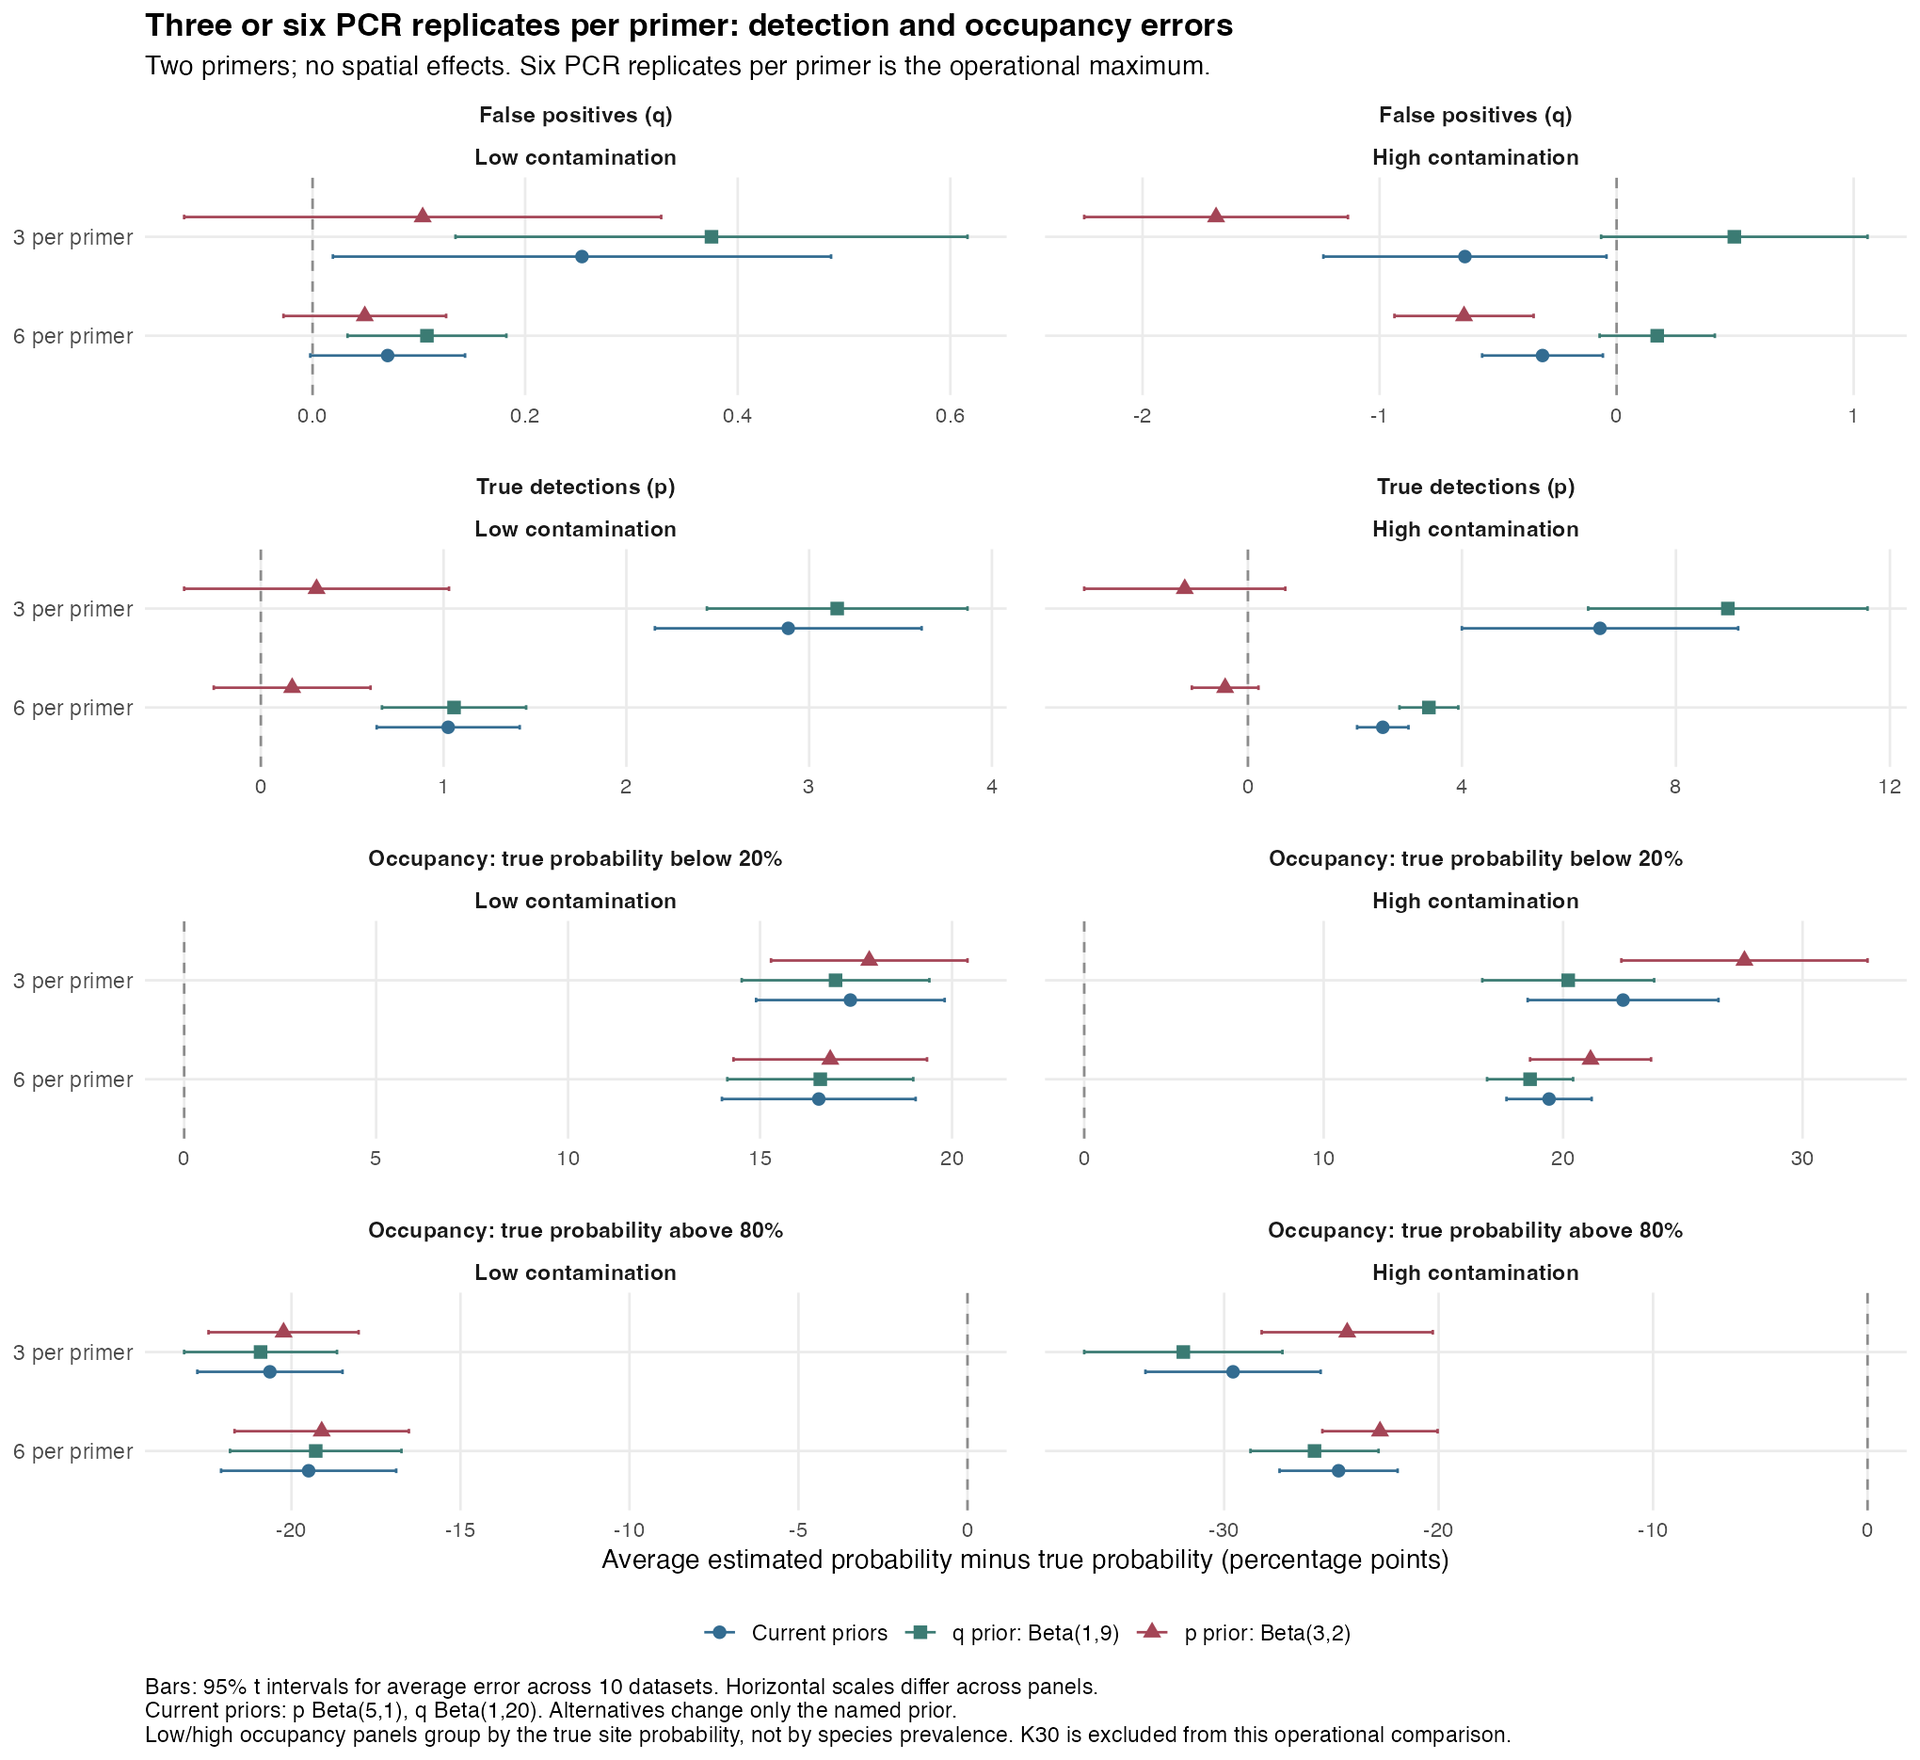
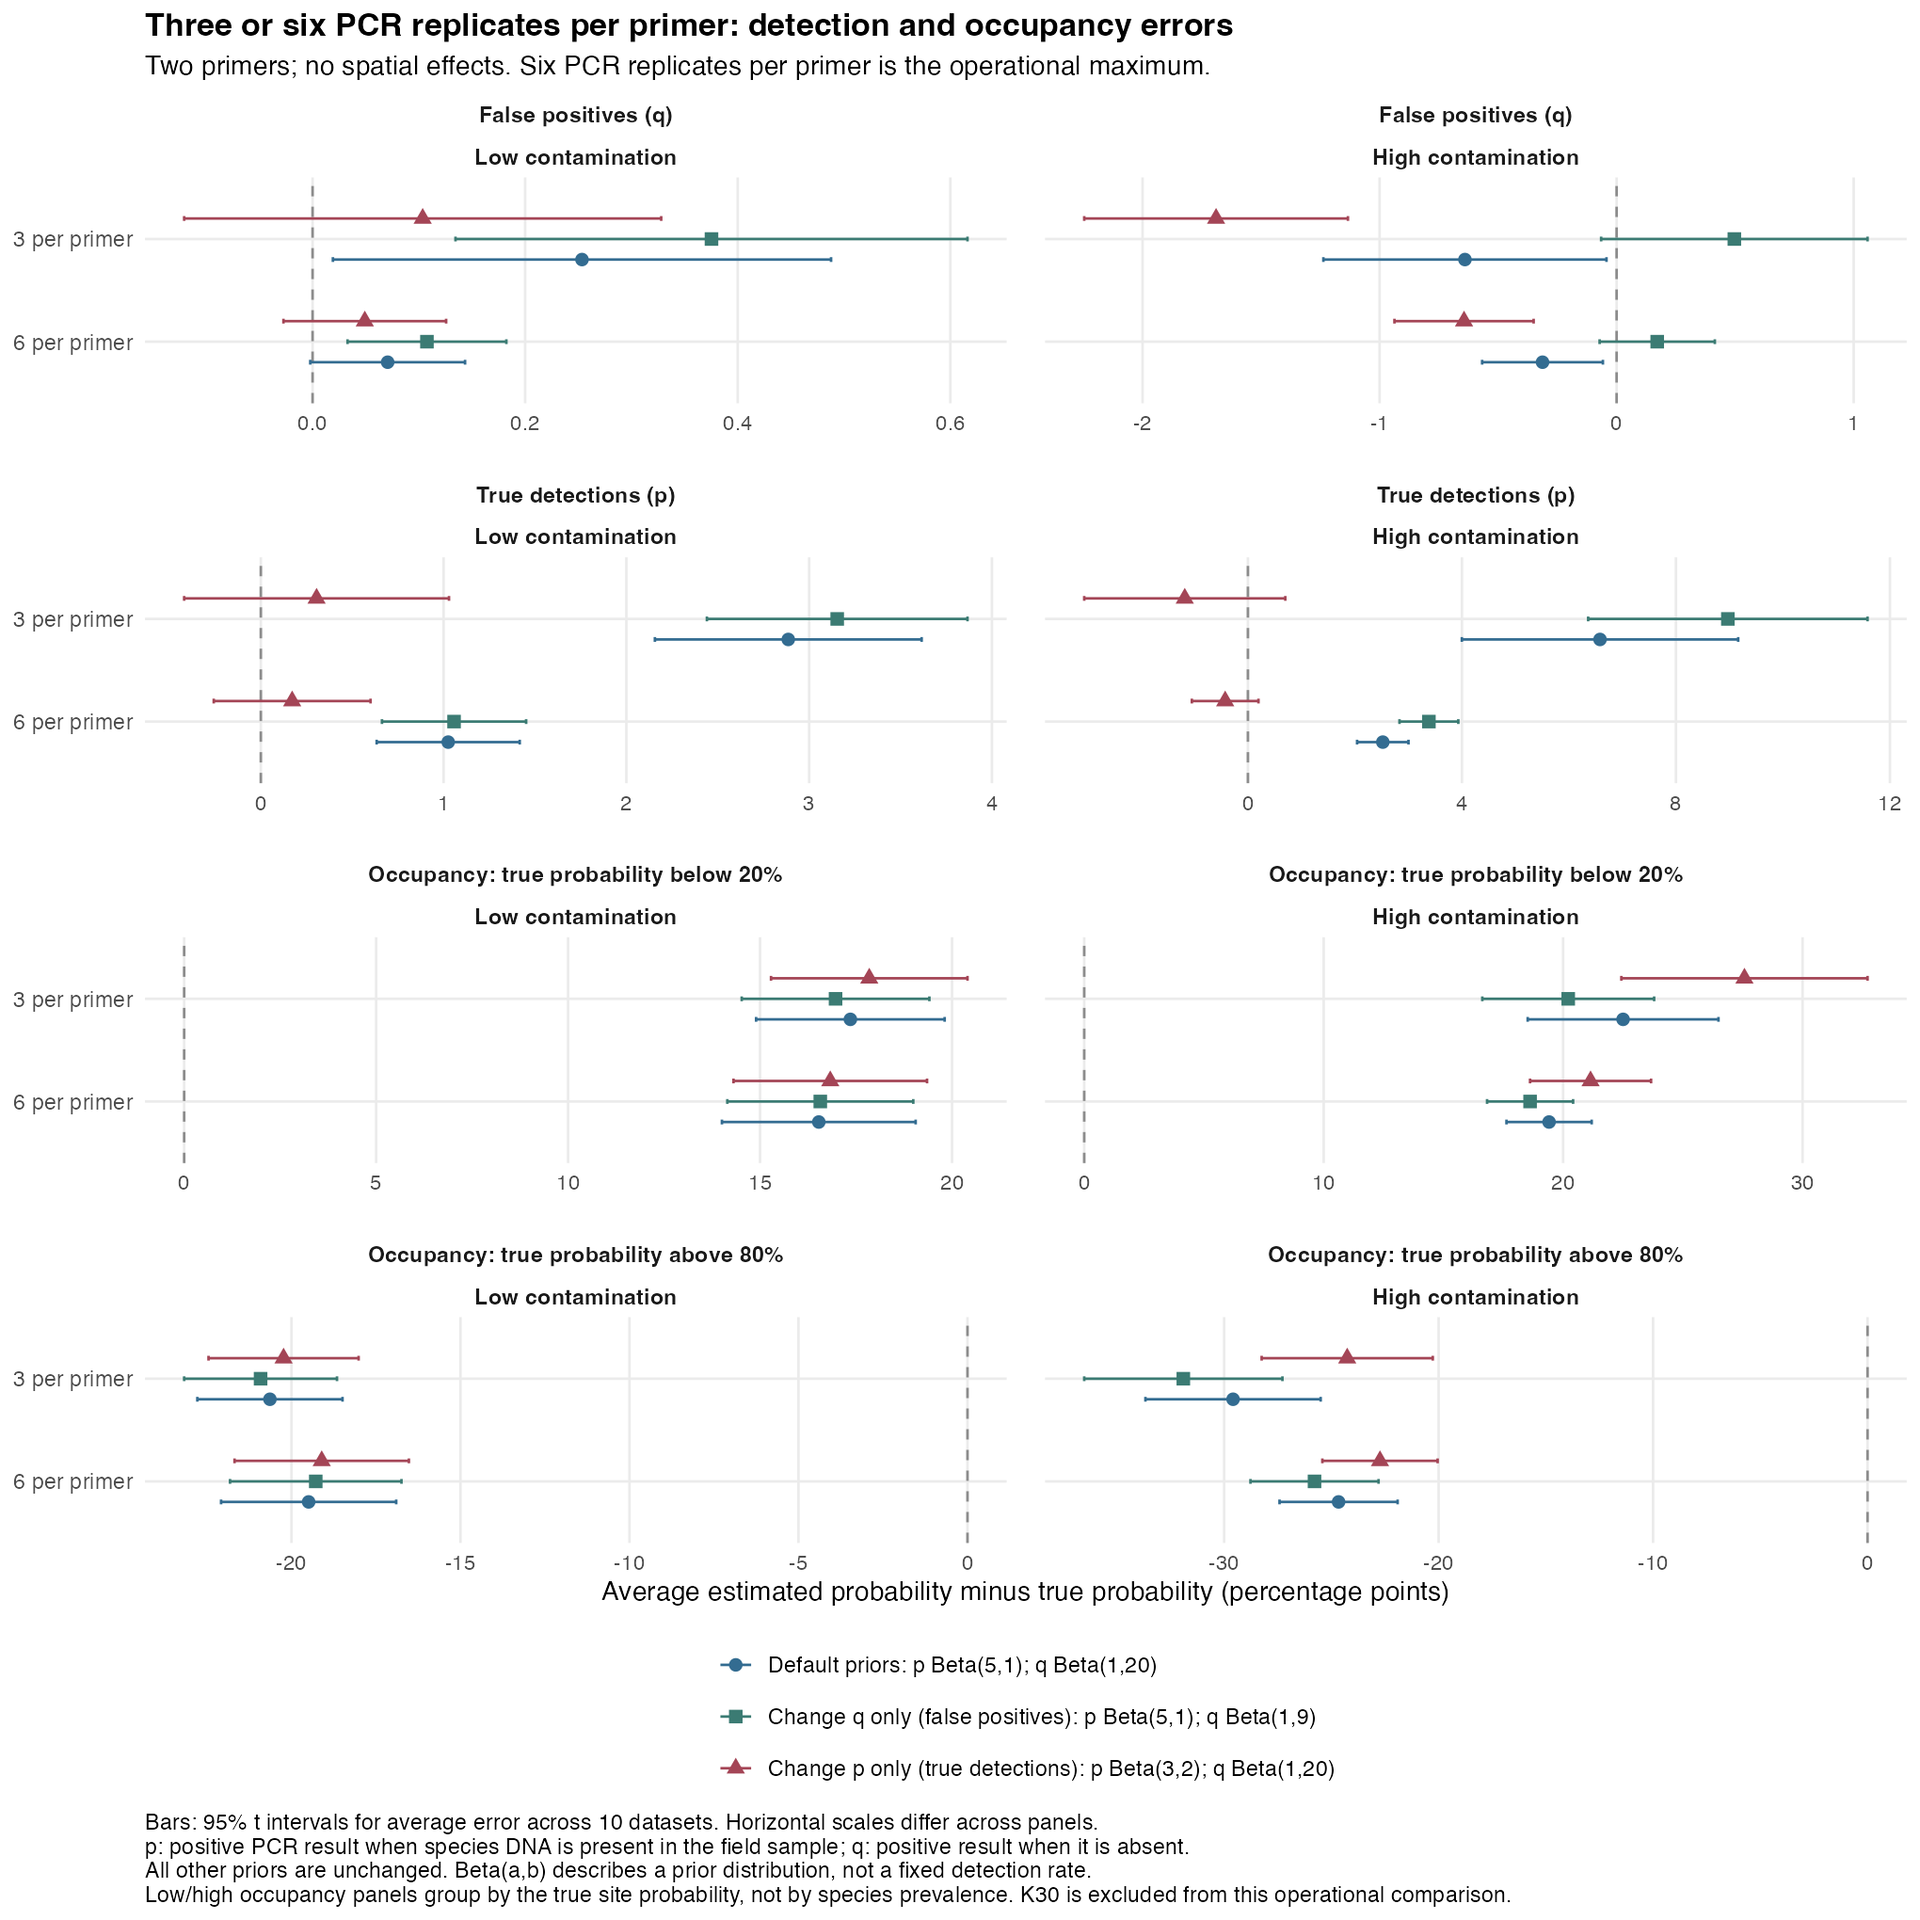
Explain the detection prior comparisons in the PCR figure

diff --git a/dev/simstudy/nonspatial-bias-recheck.md b/dev/simstudy/nonspatial-bias-recheck.md
@@ -60,6 +60,14 @@ Occupancy improves less. At six replicates, low/high probability errors remain +
 
 At six replicates under high contamination, q Beta(1,9) gives q error +0.17 points but increases p error to +3.38 points. Alternatively, p Beta(3,2) reduces p error to -0.43 points but increases the q underestimate to -0.64 points. Its low/high occupancy errors are +21.15/-22.73 points. These remain trade-offs, not grounds for automatically replacing the defaults.
 
+**How to read the three legend entries.** Here, **p** is the probability of a positive PCR result when the species' DNA is present in the field sample, and **q** is the probability of a positive result when it is absent. Each colour and symbol represents a different pair of prior assumptions used to fit the same datasets:
+
+- **Default priors:** p uses Beta(5,1), and q uses Beta(1,20). Their prior means are about 83% for true detection and 4.8% for false positives.
+- **Change q only (false positives):** keep p at Beta(5,1), but change q to Beta(1,9). The false-positive prior mean becomes 10%.
+- **Change p only (true detections):** keep q at Beta(1,20), but change p to Beta(3,2). The true-detection prior mean becomes 60%.
+
+These percentages describe the means of the assumed distributions before fitting, not fixed rates imposed on the results. The distributions also differ in shape and concentration. All other priors are held unchanged. Thus the figure compares the defaults with changing one detection prior at a time; it does not compare using a p prior versus using a q prior. Every fit uses both.
+
 ![Operational comparison at three and six PCR replicates per primer](nonspatial-bias-recheck/results/operational-pcr-bias.png)
 
 ### The alternative priors do not improve everything together
